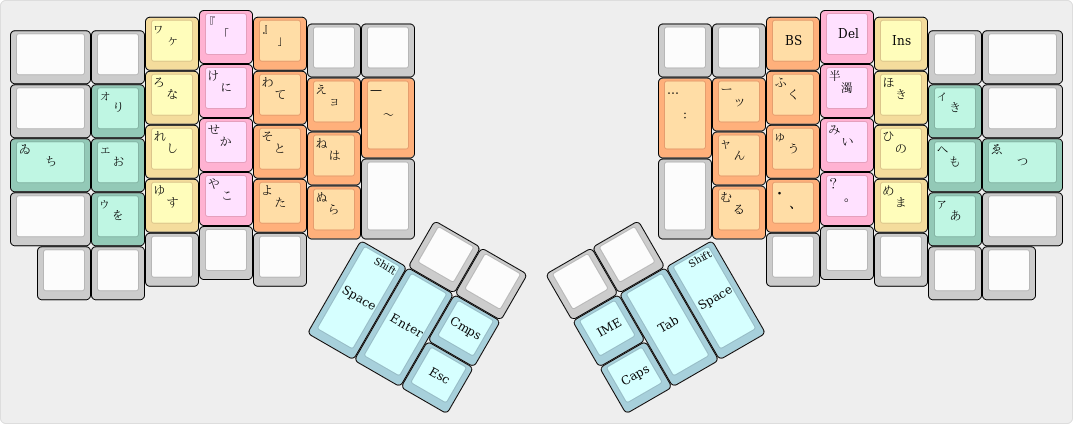
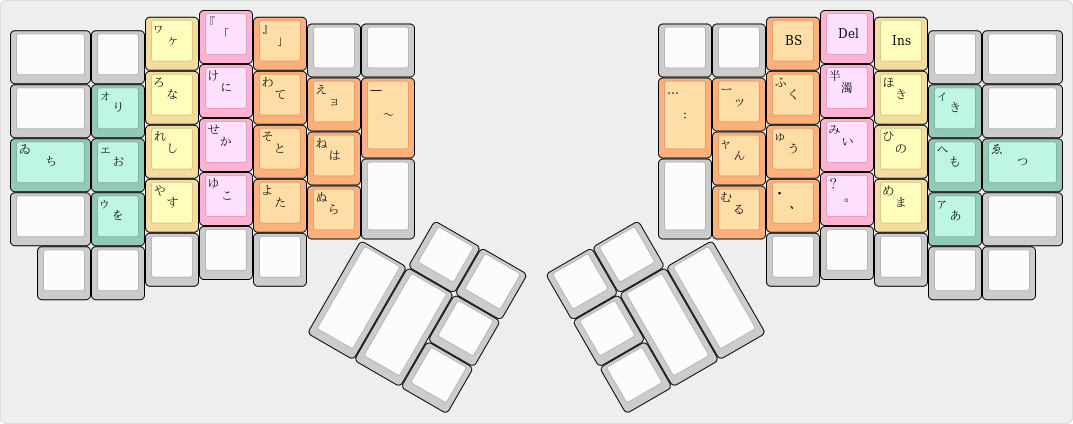
update layout

Changed region(s): [[0.5228, 0.5825, 0.7074, 0.9811], [0.2768, 0.5825, 0.4613, 0.9811], [0.123, 0.4292, 0.1538, 0.4599]]

diff --git a/keymap.c b/keymap.c
@@ -4,14 +4,14 @@ const uint16_t PROGMEM keymaps[][MATRIX_ROWS][MATRIX_COLS] = {
 	[L_BASE] = KEYMAP(
 		// left hand
 		KC_PSCR, KC_NO, KC_GRV, KC_LBRC, KC_RBRC, KC_MPLY, KC_MUTE,
-		KC_NO, KC_J, KC_U, KC_O, KC_P, KC_SLSH, KC_BSLS,
+		KC_NO, KC_Z, KC_U, KC_O, KC_P, KC_J, KC_BSLS,
 		KC_QUOT, LCTL_T(KC_W), LALT_T(KC_A), LGUI_T(KC_E), DIR_T(KC_I), NUM_T(KC_Y),
-		KC_LALT, KC_Z, KC_COMM, KC_DOT, KC_B, KC_MINS, KC_NO,
+		KC_LALT, KC_SLSH, KC_COMM, KC_DOT, KC_B, KC_MINS, KC_NO,
 		KC_LCTL, KC_LGUI, KC_RCLK, KC_MCLK, KC_LCLK,
 		// thumb
-		KC_NO, KC_NO,
-		KC_CMPS,
-		LSFT_T(KC_SPC), LRPT_T(KC_ENT), KC_ESC,
+		KC_ESC, KC_NO,
+		KC_MULTI,
+		KC_ENT, OS_SFT, KC_CAPS,
 		// right hand
 		KC_VOLD, KC_VOLU, KC_BSPC, KC_DEL, KC_INS, KC_NO, KC_PAUS,
 		KC_EQL, KC_V, KC_M, KC_L, KC_C, KC_X, KC_NO,
@@ -19,53 +19,9 @@ const uint16_t PROGMEM keymaps[][MATRIX_ROWS][MATRIX_COLS] = {
 		KC_NO, KC_K, KC_N, KC_G, KC_D, KC_Q, KC_LALT,
 		KC_LCLK, KC_MCLK, KC_RCLK, KC_RGUI, KC_RCTL,
 		// thumb
-		KC_NO, KC_NO,
-		KC_TGIM,
-		KC_CAPS, RRPT_T(KC_TAB), RSFT_T(KC_SPC)
-	),
-	[L_LREPEAT] = KEYMAP(
-		// left hand
-		KC_TRNS, KC_TRNS, KC_TRNS, KC_TRNS, KC_TRNS, KC_TRNS, KC_TRNS,
-		KC_TRNS, KC_TRNS, KC_TRNS, KC_TRNS, KC_TRNS, KC_TRNS, KC_TRNS,
-		KC_TRNS, KC_TRNS, KC_TRNS, KC_TRNS, KC_TRNS, KC_TRNS,
-		KC_TRNS, KC_TRNS, KC_TRNS, KC_TRNS, KC_TRNS, KC_TRNS, KC_TRNS,
-		KC_TRNS, KC_TRNS, KC_TRNS, KC_TRNS, KC_TRNS,
-		// thumb
-		KC_TRNS, KC_TRNS,
-		KC_TRNS,
-		KC_TRNS, KC_TRNS, KC_TRNS,
-		// right hand
-		KC_TRNS, KC_TRNS, KC_TRNS, KC_TRNS, KC_TRNS, KC_TRNS, KC_TRNS,
-		KC_TRNS, KC_TRNS, KC_TRNS, KC_TRNS, KC_TRNS, KC_TRNS, KC_TRNS,
-		KC_H, KC_R, KC_T, KC_S, KC_F, KC_TRNS,
-		KC_TRNS, KC_TRNS, KC_TRNS, KC_TRNS, KC_TRNS, KC_TRNS, KC_TRNS,
-		KC_TRNS, KC_MCLK, KC_TRNS, KC_TRNS, KC_TRNS,
-		// thumb
-		KC_TRNS, KC_TRNS,
-		KC_TRNS,
-		KC_TRNS, KC_TAB, KC_SPC
-	),
-	[L_RREPEAT] = KEYMAP(
-		// left hand
-		KC_TRNS, KC_TRNS, KC_TRNS, KC_TRNS, KC_TRNS, KC_TRNS, KC_TRNS,
-		KC_TRNS, KC_TRNS, KC_TRNS, KC_TRNS, KC_TRNS, KC_TRNS, KC_TRNS,
-		KC_TRNS, KC_W, KC_A, KC_E, KC_I, KC_Y,
-		KC_TRNS, KC_TRNS, KC_TRNS, KC_TRNS, KC_TRNS, KC_TRNS, KC_TRNS,
-		KC_TRNS, KC_TRNS, KC_TRNS, KC_MCLK, KC_TRNS,
-		// thumb
-		KC_TRNS, KC_TRNS,
-		KC_TRNS,
-		KC_SPC, KC_ENT, KC_TRNS,
-		// right hand
-		KC_TRNS, KC_TRNS, KC_TRNS, KC_TRNS, KC_TRNS, KC_TRNS, KC_TRNS,
-		KC_TRNS, KC_TRNS, KC_TRNS, KC_TRNS, KC_TRNS, KC_TRNS, KC_TRNS,
-		KC_TRNS, KC_TRNS, KC_TRNS, KC_TRNS, KC_TRNS, KC_TRNS,
-		KC_TRNS, KC_TRNS, KC_TRNS, KC_TRNS, KC_TRNS, KC_TRNS, KC_TRNS,
-		KC_TRNS, KC_TRNS, KC_TRNS, KC_TRNS, KC_TRNS,
-		// thumb
-		KC_TRNS, KC_TRNS,
-		KC_TRNS,
-		KC_TRNS, KC_TRNS, KC_TRNS
+		KC_NO, KC_TAB,
+		KC_MHEN,
+		KC_HENK, OS_SFT, KC_SPC
 	),
 	[L_SIGN] = KEYMAP(
 		// left hand

diff --git a/youhei.h b/youhei.h
@@ -6,19 +6,16 @@
 
 enum Layer {
 	L_BASE,
-	L_LREPEAT,
-	L_RREPEAT,
 	L_SIGN,
 	L_DIRECTION,
 	L_NUMBER,
 	L_FUNCTION,
 };
 
+
 /*
 enum Macro {
-	M_NONE,
 };
-
 enum Function {
 	F_GUI_T_MCLK,
 };
@@ -40,8 +37,6 @@ enum Keycode_User {
 #define DIR_T(kc) LT(L_DIRECTION, kc)
 #define NUM_T(kc) LT(L_NUMBER, kc)
 #define FN_T(kc) LT(L_FUNCTION, kc)
-#define LRPT_T(kc) LT(L_LREPEAT, kc)
-#define RRPT_T(kc) LT(L_RREPEAT, kc)
 
 // click (left, middle, right)
 #define KC_LCLK KC_BTN1
@@ -50,9 +45,6 @@ enum Keycode_User {
 
 // aliases more meaningful for me
 #define KC_MULTI RALT(KC_NO)
-#define KC_CMPS KC_MULTI
-#define KC_TOGGLE_INPUT_METHOD KC_HENK
-#define KC_TGIM KC_TOGGLE_INPUT_METHOD
 
 // tapping key with special key
 //#define GUI_T_MCLK F(A_GUI_T_MCLK)
